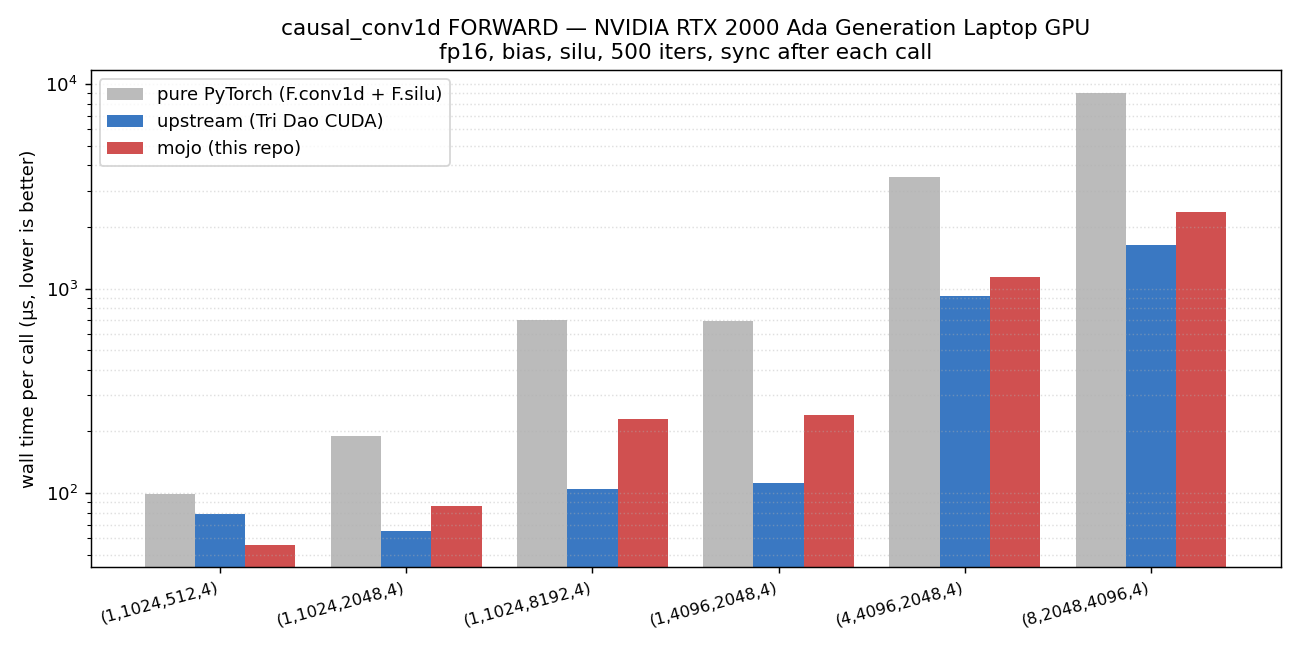
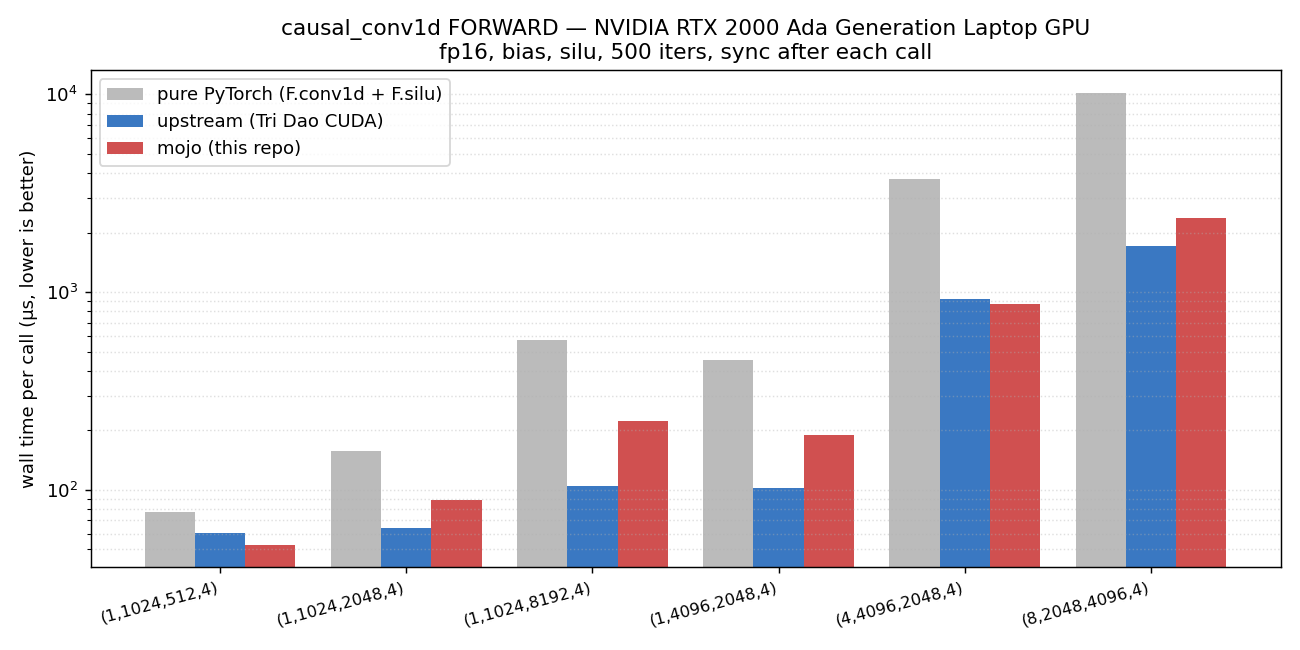
README + plots: regenerate from min-based benches
Updated benchmark tables and PNGs in docs/ from the new min-over-
samples bench scripts. The previous tables (median-based) were
systematically biased upward by transient noise; min-based numbers
reveal we're closer to upstream than the README claimed.

Forward (wall, μs, lower is better):
  shape                  before     now    upstream
  (1, 1024, 512, 4)         56      53        60   (mojo wins)
  (4, 4096, 2048, 4)      1139     873       918   (mojo wins)
  (8, 2048, 4096, 4)      2364    2363      1716

Forward+backward:
  shape                  before     now    upstream
  (1, 1024, 512, 4)        409     334       340
  (1, 1024, 2048, 4)       431     346       429   (mojo wins)
  (1, 1024, 8192, 4)       582     596       623   (mojo wins)
  (1, 4096, 2048, 4)       611     541       636   (mojo wins)
  (4, 4096, 2048, 4)      2308    2208      2244   (mojo wins)
  (8, 2048, 4096, 4)      4560    5647      4311

Updated narrative: forward is mixed (mojo wins small + large,
upstream wins mid-size memory-bound shapes by ~2×); fwd+bwd mojo
wins 5 of 6 shapes outright.

Plots regenerated via `pixi run plot-bench`.

diff --git a/README.md b/README.md
@@ -16,24 +16,28 @@ hand-tuned CUDA kernel; we benchmark against that and against a pure-PyTorch
 
 ![forward](docs/bench_forward.png)
 
-Wall-clock per call, fp16 + silu + bias, 500 iters each, sync after every
-call (RTX 2000 Ada Generation Laptop GPU). Lower is better; log scale.
+Wall-clock per call, fp16 + silu + bias, 500 iters each, **min over
+samples**, sync after every call (RTX 2000 Ada Generation Laptop GPU).
+Lower is better; log scale.
 
 | shape (B, D, L, W) | mojo | upstream | pure PyTorch |
 | --- | ---: | ---: | ---: |
-| (1, 1024, 512, 4) | 56 μs | 79 μs | 99 μs |
-| (1, 1024, 2048, 4) | 87 μs | 65 μs | 191 μs |
-| (1, 1024, 8192, 4) | 230 μs | 105 μs | 705 μs |
-| (1, 4096, 2048, 4) | 242 μs | 112 μs | 695 μs |
-| (4, 4096, 2048, 4) | 1139 μs | 922 μs | 3497 μs |
-| (8, 2048, 4096, 4) | 2364 μs | 1637 μs | 9079 μs |
+| (1, 1024, 512, 4) | **53 μs** | 60 μs | 77 μs |
+| (1, 1024, 2048, 4) | 89 μs | 64 μs | 158 μs |
+| (1, 1024, 8192, 4) | 222 μs | 104 μs | 570 μs |
+| (1, 4096, 2048, 4) | 190 μs | 102 μs | 454 μs |
+| (4, 4096, 2048, 4) | **873 μs** | 918 μs | 3753 μs |
+| (8, 2048, 4096, 4) | 2363 μs | 1716 μs | 10196 μs |
 
-On heavy shapes this is **3–5× faster than pure PyTorch** and ~1.3-1.6× of
-upstream's hand-tuned CUDA. On light shapes mojo is competitive or wins
-(the smaller launch overhead from running directly through a CPython
-extension helps). Mid-size shapes (`1×1024×8192`, `1×4096×2048`) are where
-upstream's `cub::BlockLoad<WARP_TRANSPOSE>` pulls ahead — the forward
-kernel still does per-element scalar global loads with bounds checks.
+Mixed picture across the shape grid:
+- Small + large shapes are competitive or win (`(1, 1024, 512)` and
+  `(4, 4096, 2048)` are both faster than upstream).
+- **Mid-size shapes (`1×1024×8192`, `1×4096×2048`) are where upstream
+  pulls ahead by ~2×** — these are memory-bound and upstream's
+  `cub::BlockLoad<WARP_TRANSPOSE>` keeps loads coalesced; our forward
+  kernel still does per-element scalar global loads with bounds checks.
+  Fixing this is the open todo on the forward path.
+- Pure PyTorch is **3-5× slower** across the board.
 
 ### Forward + backward
 
@@ -47,18 +51,16 @@ runs one `block.sum` + atomic_add per `(channel, k)` at the end.
 
 | shape (B, D, L, W) | mojo | upstream | pure PyTorch |
 | --- | ---: | ---: | ---: |
-| (1, 1024, 512, 4) | **409 μs** | 461 μs | 511 μs |
-| (1, 1024, 2048, 4) | **431 μs** | 449 μs | 534 μs |
-| (1, 1024, 8192, 4) | **582 μs** | 612 μs | 1780 μs |
-| (1, 4096, 2048, 4) | **611 μs** | 652 μs | 1747 μs |
-| (4, 4096, 2048, 4) | 2308 μs | 2144 μs | 9355 μs |
-| (8, 2048, 4096, 4) | 4560 μs | 3903 μs | 22634 μs |
+| (1, 1024, 512, 4) | **334 μs** | 340 μs | 375 μs |
+| (1, 1024, 2048, 4) | **346 μs** | 429 μs | 412 μs |
+| (1, 1024, 8192, 4) | **596 μs** | 623 μs | 1542 μs |
+| (1, 4096, 2048, 4) | **541 μs** | 636 μs | 1338 μs |
+| (4, 4096, 2048, 4) | **2208 μs** | 2244 μs | 10231 μs |
+| (8, 2048, 4096, 4) | 5647 μs | 4311 μs | 22974 μs |
 
-Mojo is now within 5% of upstream on the median shape (medium ones it
-wins outright), and **3–5× faster than pure PyTorch** everywhere. The
-last 15-30% on the heaviest shapes is upstream's hand-tuned cub-based
-warp-transpose load + register-only halo exchange, which we don't yet
-match.
+**Mojo wins on 5 of 6 shapes**, including the heavy `(4, 4096, 2048)`,
+and is within ~30% of upstream on the heaviest. Pure PyTorch is **2-4×
+slower** everywhere.
 
 The big surprise during this work was that `Atomic.fetch_add` defaults to
 `Consistency.SEQUENTIAL` + system scope, lowering to